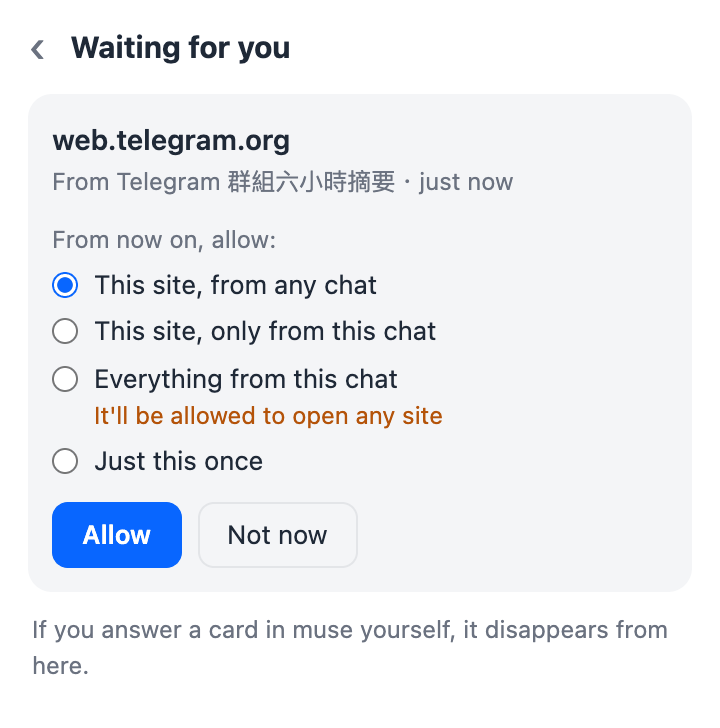
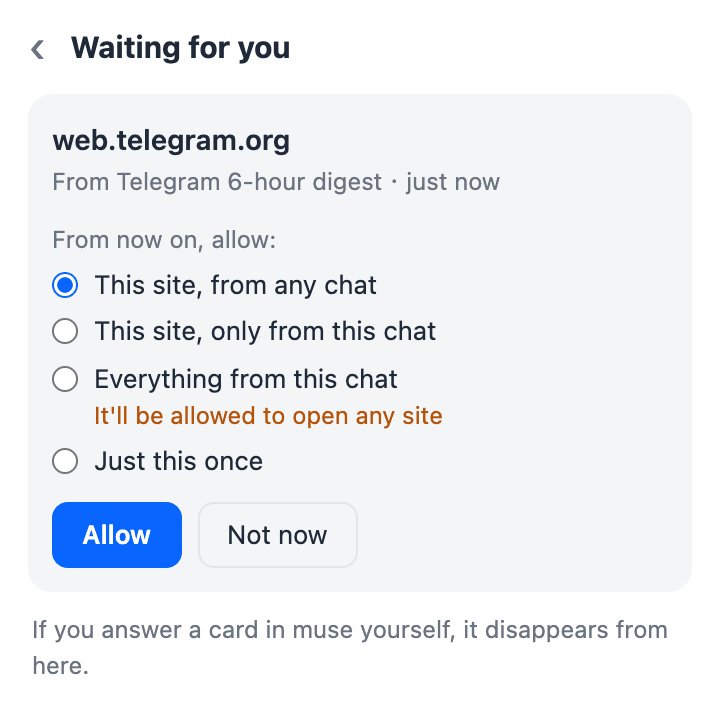
商店截圖與宣傳圖塊加英文版，英文示範資料改英文

Changed region(s): [[0.3056, 0.2115, 0.7333, 0.272]]

diff --git a/store/screenshots.html b/store/screenshots.html
@@ -23,28 +23,33 @@
   <section class="slide" id="s1">
     <div class="text">
       <img class="logo" src="../icons/icon128.png" alt="">
-      <h1>審批卡跳出來，<br>自動幫你按允許</h1>
-      <p>Ren 存取網站時不用守著畫面，排程任務不會卡住。</p>
-      <p>可以全部都按，也可以只按你信任的網站和聊天室。</p>
+      <h1 data-en="Approval cards,<br>clicked for you">審批卡跳出來，<br>自動幫你按允許</h1>
+      <p data-en="Ren can open websites without you watching the screen, so scheduled tasks don't get stuck.">Ren 存取網站時不用守著畫面，排程任務不會卡住。</p>
+      <p data-en="Approve everything, or only the sites and chats you trust.">可以全部都按，也可以只按你信任的網站和聊天室。</p>
     </div>
     <img class="shot popup" src="../docs/images/zh-TW/popup.png" alt="">
   </section>
   <section class="slide" id="s2">
     <div class="text">
-      <h1>新的網站先問你，<br>按一次就記住</h1>
-      <p>工具列出現紅色數字時點開，選要信任到什麼範圍：這個網站、只限某個聊天室、整個聊天室，或只允許這一次。</p>
-      <p>之後同樣的請求就直接允許。</p>
+      <h1 data-en="New sites ask first,<br>then it's automatic">新的網站先問你，<br>按一次就記住</h1>
+      <p data-en="When a red number shows up on the toolbar icon, open it and pick how far to trust the request: this site, this site from one chat, the whole chat, or just this once.">工具列出現紅色數字時點開，選要信任到什麼範圍：這個網站、只限某個聊天室、整個聊天室，或只允許這一次。</p>
+      <p data-en="After that, matching requests go through on their own.">之後同樣的請求就直接允許。</p>
     </div>
     <img class="shot popup" src="../docs/images/zh-TW/popup-pending.png" alt="">
   </section>
   <section class="slide" id="s3">
-    <h1>完整清單都在設定頁</h1>
-    <p>網站可以限定聊天室、先停用不刪掉，也能匯出設定搬到別台電腦。</p>
+    <h1 data-en="Your full lists live in Settings">完整清單都在設定頁</h1>
+    <p data-en="Limit a site to certain chats, turn entries off without deleting them, and export your settings to another computer.">網站可以限定聊天室、先停用不刪掉，也能匯出設定搬到別台電腦。</p>
     <img class="shot" src="../docs/images/zh-TW/options-sites.png" alt="">
   </section>
   <script>
     const n = new URLSearchParams(location.search).get('s') || '1';
     document.getElementById(`s${n}`).classList.add('on');
+    if (new URLSearchParams(location.search).get('lang') === 'en') {
+      document.documentElement.lang = 'en';
+      document.querySelectorAll('[data-en]').forEach(el => { el.innerHTML = el.dataset.en; });
+      document.querySelectorAll('img[src*="docs/images/zh-TW/"]').forEach(img => { img.src = img.getAttribute('src').replace('zh-TW/', ''); });
+    }
   </script>
 </body>
 </html>

diff --git a/store/promo.html b/store/promo.html
@@ -42,15 +42,15 @@
     <div class="badge"><img src="../icons/icon128.png" alt=""></div>
     <div>
       <div class="name">Auto Approve<br>for Muse</div>
-      <div class="line">審批卡跳出來，<br>自動幫你按允許</div>
+      <div class="line" data-en="Approval cards,<br>clicked for you">審批卡跳出來，<br>自動幫你按允許</div>
     </div>
   </section>
   <section class="tile" id="marquee">
     <div class="left">
       <div class="badge"><img src="../icons/icon128.png" alt=""></div>
       <div class="name">Auto Approve for Muse</div>
-      <div class="line">muse.ai 審批卡跳出來，自動幫你按允許。<br>只允許你信任的網站和聊天室。</div>
-      <div class="line sub">非官方工具，與 Meta、muse.ai 無關</div>
+      <div class="line" data-en="Clicks Allow on muse.ai approval cards.<br>Only for the sites and chats you trust.">muse.ai 審批卡跳出來，自動幫你按允許。<br>只允許你信任的網站和聊天室。</div>
+      <div class="line sub" data-en="Unofficial. Not affiliated with Meta or muse.ai.">非官方工具，與 Meta、muse.ai 無關</div>
     </div>
     <div class="shots">
       <img class="home" src="../docs/images/zh-TW/popup.png" alt="">
@@ -61,6 +61,10 @@
     const q = new URLSearchParams(location.search);
     const tile = document.getElementById(q.get('t') || 'small');
     tile.classList.add('on');
+    if (q.get('lang') === 'en') {
+      document.documentElement.lang = 'en';
+      tile.querySelectorAll('[data-en]').forEach(el => { el.innerHTML = el.dataset.en; });
+    }
     const bg = q.get('bg');
     if (bg) {
       tile.classList.add('art');

diff --git a/store/listing.md b/store/listing.md
@@ -11,10 +11,12 @@
 - 類別：工具（Tools）
 - 語言：中文（繁體）
 - 商店圖示：`icons/icon128.png`
-- 螢幕截圖：`store/screenshot-1.png`、`store/screenshot-2.png`、`store/screenshot-3.png`（照順序上傳，舊的那張刪掉）
-- 小型宣傳圖塊（440×280）：`store/promo-small.png`
-- 跑馬燈宣傳圖塊（1400×560）：`store/promo-marquee.png`
-- 宣傳圖塊的背景插圖 `store/promo-bg.jpg` 是 codex 生成的（無文字），字和 icon 由 `store/promo.html` 疊上去：`promo.html?t=small&bg=promo-bg.jpg`、`promo.html?t=marquee&bg=promo-bg.jpg&pos=center%2045%25`
+- 在地化螢幕截圖（中文）：`store/screenshot-1.png`、`store/screenshot-2.png`、`store/screenshot-3.png`（照順序上傳，舊的那張刪掉）
+- 在地化螢幕截圖（英文）：`store/screenshot-en-1.png`、`store/screenshot-en-2.png`、`store/screenshot-en-3.png`
+- 小型宣傳圖塊（440×280）：`store/promo-small.png`（中文）或 `store/promo-small-en.png`（英文）
+- 跑馬燈宣傳圖塊（1400×560）：`store/promo-marquee.png`（中文）或 `store/promo-marquee-en.png`（英文）
+- 宣傳圖塊屬於「通用資產」，所有語言共用一張，中英文擇一上傳。
+- 宣傳圖塊的背景插圖 `store/promo-bg.jpg` 是 codex 生成的（無文字），字和 icon 由 `store/promo.html` 疊上去（加 `&lang=en` 產生英文版）：`promo.html?t=small&bg=promo-bg.jpg`、`promo.html?t=marquee&bg=promo-bg.jpg&pos=center%2045%25`
 - 首頁網址：https://github.com/homieyangg/muse-auto-approve
 - 支援網址：https://github.com/homieyangg/muse-auto-approve/issues
 
